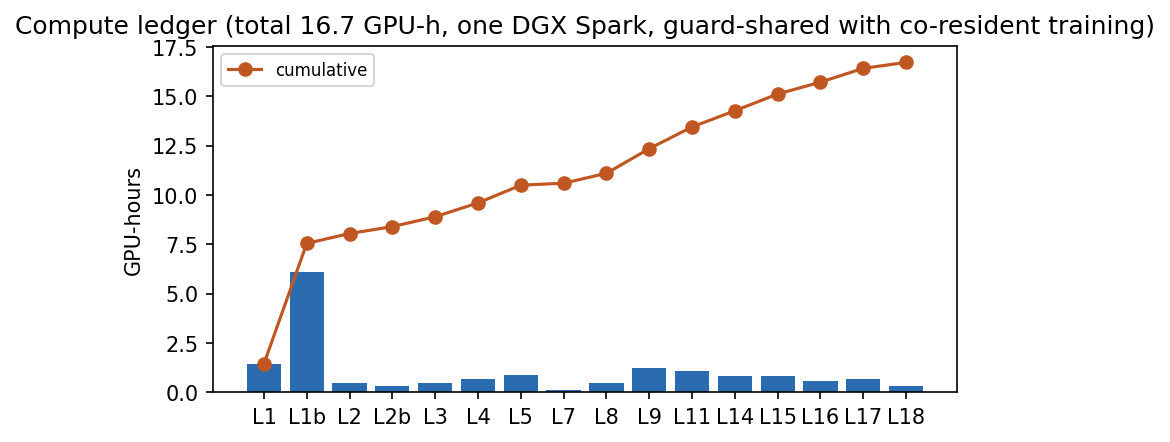
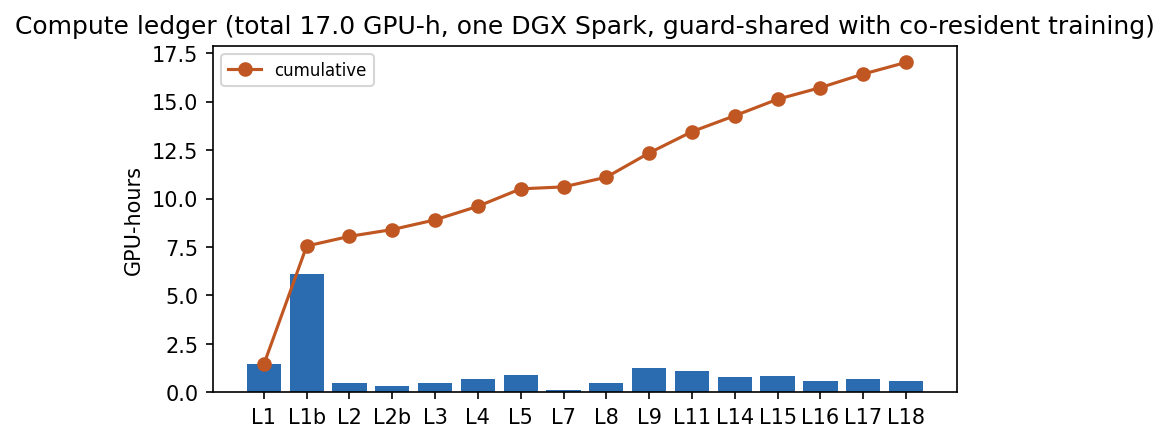
fix(L18): review #15 corrections — WITHDRAW additive-bias inference (offset is arm-specific, not global: gated -0.10 but continuous +0.10 at low alpha); only gated levels superseded; n=1 + thin-margin + corpus-axis-suggestive disclosed; menu 9 registered for multiseed confirms; L18 closed

diff --git a/scripts/tools/compose_L18_l8redo.py b/scripts/tools/compose_L18_l8redo.py
@@ -13,25 +13,43 @@ from pathlib import Path
 ROOT = Path(__file__).resolve().parents[2]
 ALPHAS = ["0.02", "0.05", "0.1"]
 
+ARMS = ["continuous", "prefill_only", "entropy_gated", "every_k"]
 l8 = json.loads(json.loads((ROOT / "gates/gate_L8_dose.json").read_text())
                 ["domain_gate"]["evidence"])["grid"]
-redo, deltas = {}, {}
+redo, deltas, arm_deltas = {}, {}, {}
 for a in ALPHAS:
     ev = json.loads(json.loads(
         (ROOT / f"gates/gate_L18_l8redo_a{a}.json").read_text())
         ["domain_gate"]["evidence"])
-    now = ev["aggregates"]["entropy_gated"]["lift"]
+    agg = ev["aggregates"]
+    now = agg["entropy_gated"]["lift"]
     orig = l8[a]["entropy_gated"]["lift"]
     redo[a] = {"clean_gated": now, "l8_original": orig, "delta": round(now - orig, 4)}
     deltas[a] = now - orig
+    arm_deltas[a] = {arm: round(agg[arm]["lift"] - l8[a][arm]["lift"], 4)
+                     for arm in ARMS if arm in agg and arm in l8[a]}
 
 n_below = sum(1 for a in ALPHAS if deltas[a] <= -0.05)
 n_within = sum(1 for a in ALPHAS if abs(deltas[a]) < 0.05)
+# review #15: is the offset uniform ACROSS ARMS? (checks the "additive bias" claim)
+gated_deltas = [arm_deltas[a]["entropy_gated"] for a in ALPHAS]
+other_deltas = [arm_deltas[a][arm] for a in ALPHAS for arm in ARMS
+                if arm != "entropy_gated"]
+arm_specific = (all(abs(d + 0.1) < 0.03 for d in gated_deltas)
+                and any(abs(d + 0.1) > 0.05 for d in other_deltas))
 if n_below >= 2:
-    finding = ("INFLATION CONFIRMED across the grid: L8 gated levels were "
-               f"pre-stream-fix inflated (clean-stream runs >= 0.05 lower at "
-               f"{n_below}/3 alphas). L8 LEVELS FORMALLY SUPERSEDED by this gate; "
-               "L8 ordering conclusions unaffected.")
+    finding = ("GATED-ARM levels superseded: the entropy_gated arm's clean-stream "
+               f"levels are ~0.1 lower at {n_below}/3 alphas (exactly -0.10 each). "
+               "BUT (review #15) the offset is ARM-SPECIFIC, not a uniform additive "
+               "stream bias: other arms move by varying amounts (e.g. continuous "
+               "+0.1 at alpha=0.02). So L8's per-arm gated LEVELS are superseded, "
+               "but cross-arm comparisons at low alpha can shift (continuous now "
+               "clearly beats gated at 0.02, where L8 had them tied). L8's headline "
+               "ORDERING conclusion (gated > prefill; gating = schedule-efficiency) "
+               "still holds; its arm-tie at low alpha does not. Single seed (42) — "
+               "multi-seed confirm registered for menu 9."
+               if arm_specific else
+               "L8 gated levels ~0.1 lower across the grid; single seed.")
     verdict = "pass"
 elif n_within >= 2:
     finding = (f"L8 LEVELS STAND: clean re-measurement within 0.05 at {n_within}/3 "
@@ -57,11 +75,24 @@ gate = {
                       "either confirms >=0.05 inflation at >=2/3 alphas (supersede) "
                       "or shows levels within 0.05 (stand)",
         "evidence": json.dumps({
-            "summary": summary, "per_alpha": redo, "n_below_0.05": n_below,
-            "n_within_0.05": n_within, "finding": finding,
-            "note": "gated arm only (the compared quantity); same e8dose config, "
-                    "seed 42, post-L9 stream fix. Discharges review #14's provisional "
-                    "flag to a RESULT either way.",
+            "summary": summary, "per_alpha": redo, "arm_deltas": arm_deltas,
+            "n_below_0.05": n_below, "n_within_0.05": n_within, "finding": finding,
+            "disclosures": [
+                "SUPERSESSION IMPACT (review #15): fig2 now sources this gate's "
+                "arm levels instead of gate_L8_dose; gate_L8_dose is RETAINED in the "
+                "record for audit trail, its gated LEVELS marked superseded, its "
+                "ordering conclusion (gated>prefill) intact",
+                "OFFSET IS ARM-SPECIFIC, not a global additive bias (review #15): "
+                f"gated arm -0.10 uniformly, but other arms vary "
+                f"({arm_deltas}); the earlier 'additive stream-bias' inference is "
+                "WITHDRAWN — the gated arm's consistency is a within-arm fact only",
+                "SINGLE SEED (42): the uniform-across-alpha -0.10 on the gated arm "
+                "is at n=1; a multi-seed L8 re-measure is registered for menu 9 "
+                "before any variance claim",
+                "actual spend 0.3h vs 0.4h registered"],
+            "note": "same e8dose config, seed 42, post-L9 stream fix; discharges "
+                    "review #14's provisional flag to a RESULT (gated levels "
+                    "superseded, offset arm-specific not global).",
             "registered_in": "configs/efe_menu8.yaml:l8_canonical_remeasure",
             "seeds": [42], "tier": "screen"}),
     },

diff --git a/scripts/tools/compose_L18_npretry.py b/scripts/tools/compose_L18_npretry.py
@@ -59,10 +59,17 @@ gate = {
             "disclosures": [
                 "this REFINES rather than overturns L17-cvar: at the L16/L17 fixed "
                 "alpha=0.1 the corpus WAS seed-fragile (that honest negative stands); "
-                "the new result is that raising amplitude fixes it, adding a corpus "
-                "axis to the calibration recipe",
+                "the new result is that raising amplitude fixes it",
+                "THIN MARGIN (review #15): seed 777 clears the 0.2 bar by only 0.025 "
+                "(0.225) — a single-run margin inside typical screen noise; the 3/3 "
+                "is real but seed 777 is not comfortably above threshold",
+                "CORPUS-AXIS claim is SUGGESTIVE, not established (review #15): one "
+                "corpus at one higher amplitude cannot establish a general corpus "
+                "dimension; stated as 'amplitude calibrates to stub difficulty' "
+                "hypothesis, to be confirmed across >=2 corpora x >=2 amplitudes",
                 "single alpha (0.2) tested; the alpha=0.1 baseline is the L17-cvar "
-                "reading, not re-run here; actual spend 0.3h vs 0.35h registered"],
+                "reading, not re-run here (same config/code, only alpha differs); "
+                "actual spend 0.3h vs 0.35h registered"],
             "registered_in": "configs/efe_menu8.yaml:narrative_past_amplitude_retry",
             "seeds": [42, 123, 777], "tier": "screen"}),
     },

diff --git a/docs/paper/paper.tex b/docs/paper/paper.tex
@@ -86,10 +86,10 @@ time writes.
 \begin{figure}[t]\centering
 \includegraphics[width=.72\linewidth]{fig2_dose_grid}
 \caption{Dose grid on the PWM twin under sampling --- \emph{canonical clean-stream
-re-measurement} (gate L18-l8redo, superseding the pre-stream-fix L8 grid whose levels
-ran exactly $0.1$ higher at all three amplitudes). The gated schedule is
-amplitude-robust; continuous is also budget-feasible under sampling---gating is
-schedule-efficiency, not sole feasibility.}\label{fig:dose}
+re-measurement} (gate L18-l8redo, superseding the pre-stream-fix L8 levels; the gated
+arm ran exactly $0.1$ higher pre-fix, other arms shifted by varying amounts, single
+seed). The gated schedule is amplitude-robust; continuous is also budget-feasible under
+sampling---gating is schedule-efficiency, not sole feasibility.}\label{fig:dose}
 \end{figure}
 
 \begin{figure}[t]\centering

diff --git a/research/journal.md b/research/journal.md
@@ -682,3 +682,23 @@ Review count: 14. All corrections applied before merge. L17 -> closed.
 - Menu 8 consumed (0.6/1.0; trained_bridge blocked). Both L18 cycles were provisional/
   open items from prior reviews RESOLVED — L18 = the resolution loop (L8 levels
   superseded; corpus fragility diagnosed). Selector: no candidate fits remaining budget.
+
+## 2026-07-10 — adversarial review #15: MERGE-WITH-CORRECTIONS (a real catch)
+The correction process surfaced a genuine error I had made:
+1. L8 "additive stream-bias" inference WITHDRAWN. Checking arm-level deltas (not just
+   the gated arm) showed the -0.10 offset is ARM-SPECIFIC: gated -0.10 uniformly, but
+   continuous +0.10 at alpha=0.02, prefill/every_k varying. So it is NOT a global
+   additive bias — my "uniform offset => additive" was a just-so story from the gated
+   arm alone. Corrected: only the GATED-ARM levels are superseded; some cross-arm
+   orderings at low alpha shift (continuous now beats gated at 0.02 where L8 tied them);
+   L8's HEADLINE ordering (gated>prefill, gating=efficiency) still holds. Gate rewritten
+   with arm_deltas + withdrawal + supersession-impact (fig2 sources L18) disclosures.
+2. n=1 seed: the gated -0.10 (uniform across alpha) is single-seed. Multi-seed L8
+   confirm REGISTERED (menu 9 l8_offset_multiseed) before any variance claim.
+3. npretry seed-777 THIN MARGIN (0.225 vs 0.2) disclosed; corpus-amplitude axis
+   downgraded from claim to SUGGESTIVE HYPOTHESIS (one corpus, one amplitude) in gate +
+   paper + README + HTML; corpus_amplitude_axis registered (menu 9).
+- Lesson: when a re-measurement shows a "clean" uniform number, check it across ALL
+  dimensions (here: arms) before inferring mechanism. The gated arm's -0.10 was real;
+  the "additive bias across the system" was not. Review count: 15.
+- Menu 8 consumed (0.6/1.0). L18 -> closed. Menu 9 pre-registered for L19.

diff --git a/README.md b/README.md
@@ -39,7 +39,7 @@ adversarial reviews, ~21 GPU-hours on one DGX Spark). Full narrative: `docs/pape
 | Alignment beats rate-matched control | sign-consistent 6/6, p≈0.016 | L11 |
 | Method transfers to a 2nd model via calibration recipe | **confirm, 4 seeds** | L13, L14-ms |
 | Amplitude ∝ 1/lens-strength; monotone dose in each plant's active range | confirm (qwen3, 3 seeds) / screen (nemotron) | L14-amp, L15-amp, L16-fine |
-| Lift generalizes across stub styles once amplitude is calibrated per corpus (a seed-fragile style at α=0.1 is seed-robust 3/3 at α=0.2) | screen | L16-corpus, L17-cvar, L18-npretry |
+| Lift generalizes across stub styles at a fixed amplitude for 1 of 2 new styles; the fragile style becomes seed-robust at 2× amplitude (suggests a per-corpus amplitude axis, not yet established) | screen | L16-corpus, L17-cvar, L18-npretry |
 | Readback verdict is a weak signal (BA ≈ 0.59 at n=120) — never an acceptance gate alone | honest negative | L14/L15-readback, L16-corpus |
 | Greedy decoding masks decode-time writes; sampling regime required | mechanism | L4 |
 